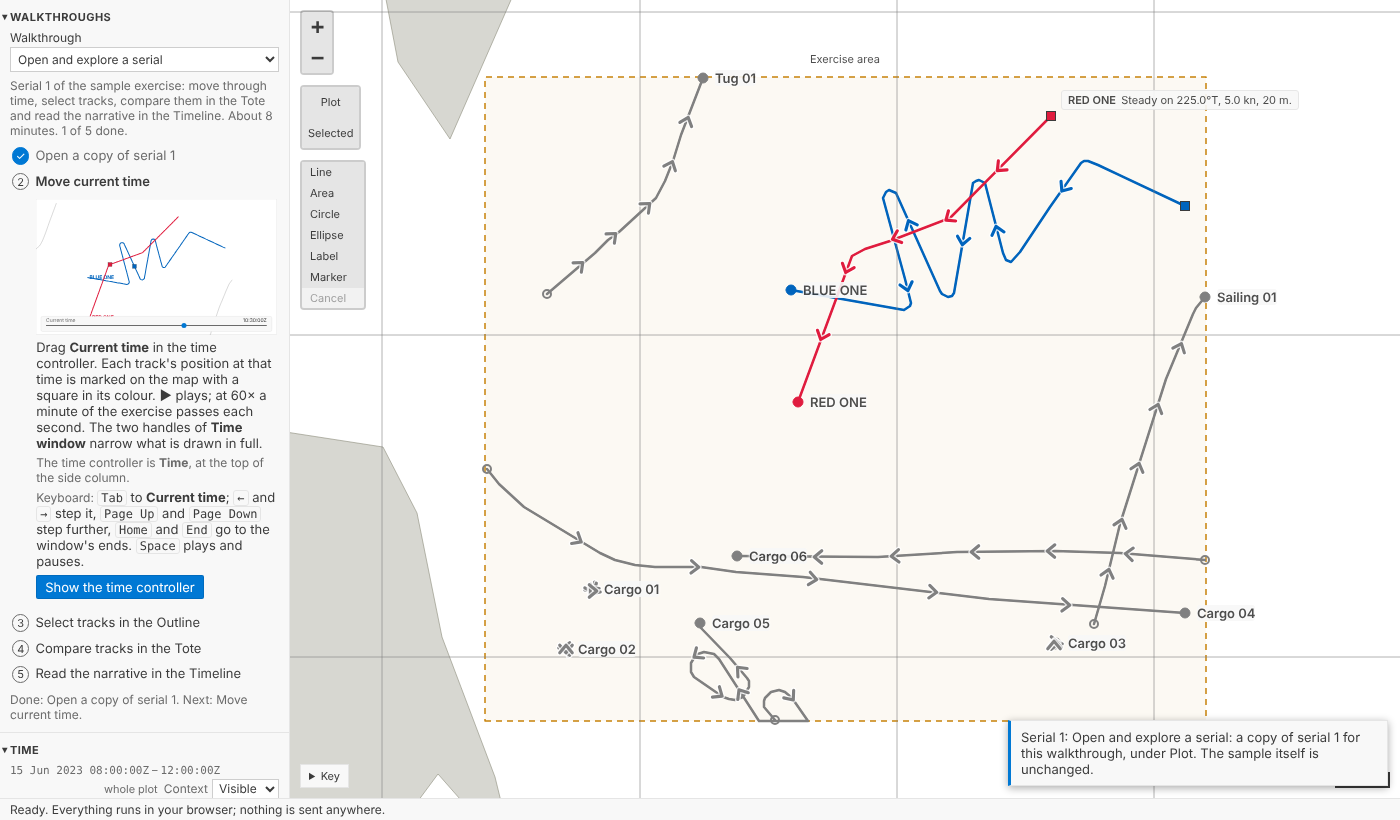
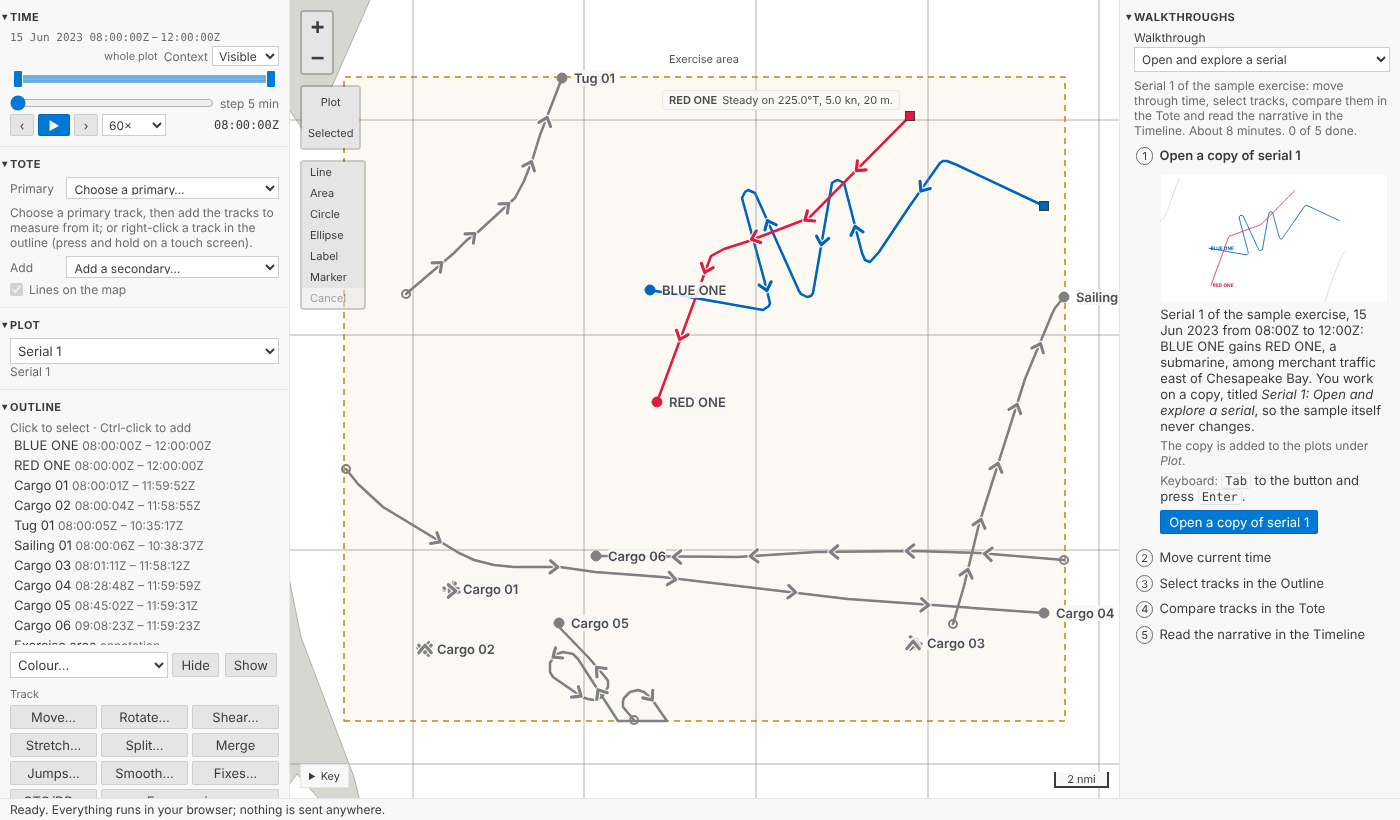
Onboarding: the walkthroughs in a column of their own, right of the map
In the browser, a step's words sat at the top of the side column, so doing
the step meant scrolling between them and the panel used. From 1200 px wide
the walkthroughs are now a column on the right of the map (product owner,
22 Oct 2026): side panels stay left, the map in the middle; the column
scrolls on its own, folds to a 25 px tab and the map widens. Below 1200 px
(phones, blog embeds, 601-900 px layouts) nothing changes: first panel in
the side column. 1200 px keeps the map about 670 px wide beside both
columns, and about 290 px with a tool's form open beside it too.

With the next step's button always in sight it can be pressed while the
step before is still saving: removing jumps and applying smoothing now close
only their own side panel, not the fix list the next step opened.

Tests: right-hand column at 1200-1440 px, labelled landmark, fold and
unfold by pointer and keyboard widen and narrow the map, step words in
sight while the side column is scrolled and while a step is done; no
sideways scroll at 1440 to 210 px in a wide font; phone layout as before;
the web demo at 1400 and 390 px. Docs, blog images and the delivery plan
updated.

Claude-Session: https://claude.ai/code/session_018c8QiHtanE5rfymqfArUYT

diff --git a/vscode/play/host.css b/vscode/play/host.css
@@ -2,7 +2,7 @@
 html, body { height: 100%; margin: 0; }
 [hidden] { display: none !important; }
 body { background: var(--vscode-editor-background); color: var(--vscode-foreground); font-family: var(--vscode-font-family); font-size: var(--vscode-font-size); }
-.app { display: grid; grid-template-columns: clamp(210px, 28vw, 290px) 1fr; grid-template-rows: 1fr auto; height: 100%; }
+.app { display: grid; grid-template-columns: clamp(210px, 28vw, 290px) minmax(0, 1fr) auto; grid-template-rows: 1fr auto; height: 100%; }
 .side { grid-row: 1; overflow-y: auto; background: var(--vscode-sideBar-background); border-right: 1px solid var(--vscode-panel-border); }
 .side section { padding: 6px 10px 10px; border-bottom: 1px solid var(--vscode-sideBarSectionHeader-border); }
 .side h2 { font-size: 11px; text-transform: uppercase; letter-spacing: .04em; margin: 4px 0 6px; display: flex; justify-content: space-between; align-items: center; color: var(--vscode-sideBarSectionHeader-foreground); }
@@ -62,7 +62,7 @@ main { grid-row: 1; display: flex; min-width: 0; min-height: 0; position: relati
 .side-bar button { text-transform: none; letter-spacing: 0; }
 .unavailable h2 { color: var(--vscode-disabledForeground); }
 .status.problem { color: var(--vscode-errorForeground); }
-footer { grid-column: 1 / span 2; padding: 3px 10px; background: var(--vscode-editorWidget-background); border-top: 1px solid var(--vscode-panel-border); font-size: 12px; }
+footer { grid-column: 1 / -1; padding: 3px 10px; background: var(--vscode-editorWidget-background); border-top: 1px solid var(--vscode-panel-border); font-size: 12px; }
 .status.busy::before { content: "⟳ "; display: inline-block; animation: spin 1.2s linear infinite; }
 @keyframes spin { to { transform: rotate(360deg); } }
 .toasts { position: fixed; right: 12px; bottom: 34px; display: flex; flex-direction: column; gap: 6px; max-width: 380px; z-index: 10; }
@@ -186,3 +186,18 @@ dialog::backdrop { background: #0006; }
 .tour-body kbd { font-family: var(--vscode-editor-font-family); font-size: 0.92em; padding: 0 3px; border: 1px solid var(--vscode-widget-border, var(--vscode-panel-border)); border-radius: 3px; }
 .tour-said { margin: 6px 0 0; min-height: 1em; overflow-wrap: anywhere; }
 .visually-hidden { position: absolute; width: 1px; height: 1px; padding: 0; margin: -1px; overflow: hidden; clip: rect(0 0 0 0); white-space: nowrap; border: 0; }
+/* On a wide screen the walkthroughs have a column of their own, on the right of the map: a step's
+   words stay in sight, whatever the side column is scrolled to, while it is done there and on the map.
+   It scrolls on its own. Folded, it is its heading on its side, a narrow tab, and the map takes the
+   rest (product owner, 22 Oct 2026). Narrower than 1200 px it is not shown: the walkthroughs are the
+   side column's first panel, as before (host.ts moves them). */
+.side.guide { grid-row: 1; grid-column: 3; min-height: 0; border-right: 0; border-left: 1px solid var(--vscode-panel-border); }
+.guide > .panel { width: clamp(240px, 20vw, 300px); box-sizing: border-box; padding-left: 14px; border-bottom: 0; }
+.guide > .panel.folded { width: auto; padding: 8px 5px; }
+.guide > .panel.folded h2 { margin: 0; }
+.guide > .panel.folded h2 button.fold { writing-mode: vertical-rl; padding: 2px 0; white-space: nowrap; }
+.guide > .panel.folded h2 button.fold .arrow { position: static; display: inline-block; width: auto; margin-bottom: 6px; text-orientation: upright; }
+.guide > .panel.folded h2 button.fold .arrow::before { content: "◂"; }
+/* A note shows over the map, not over the walkthroughs' column. */
+body:has(#guide:not([hidden]) > .panel:not(.folded)) .toasts { right: calc(clamp(240px, 20vw, 300px) + 12px); }
+body:has(#guide:not([hidden]) > .panel.folded) .toasts { right: 44px; }

diff --git a/vscode/play/host.ts b/vscode/play/host.ts
@@ -12,7 +12,8 @@
  *   plot=serial-1         the sample serial to open
  *   panels=tour,tote,timeline,tools,history,export,try,import   the side panels, in this order (all by default;
  *                         the Tote, when listed, is always under the time controller, and the
- *                         walkthroughs always above it)
+ *                         walkthroughs always above it, or, on a wide screen, in a column of
+ *                         their own on the right of the map)
  *
  * The web demo (demo.mjs) is this page, full screen at /demo/, using the playground's files.
  * Files the reader opens, there and here, are read in the browser only (DEP-07).
@@ -1232,7 +1233,8 @@ $("find-jumps").onclick = async () => {
       remove.disabled = false;
       return toast(outcome.error, "warning");
     }
-    closeSide();
+    // Only this panel: the next walkthrough step's button, in sight beside the map, may have opened another meanwhile.
+    if ($("side-frame").contains(remove)) closeSide();
   };
 };
 
@@ -1277,7 +1279,8 @@ $("smooth-track").onclick = async () => {
       apply.disabled = false;
       return toast(outcome.error, "warning");
     }
-    closeSide();
+    // Only this panel: the next walkthrough step's button, in sight beside the map, may have opened another meanwhile.
+    if ($("side-frame").contains(apply)) closeSide();
   };
 };
 
@@ -2097,10 +2100,27 @@ function needsPython(on: boolean): void {
   for (const id of NEEDS_PYTHON) $<HTMLButtonElement | HTMLInputElement>(id).disabled = !on;
 }
 needsPython(false);
-// The walkthroughs above the time controller: where a newcomer starts. Open in the web demo;
-// folded in the playground and the blog's demos, whose readers came for something else (product
-// owner, 17 Oct 2026).
-if (panels.has("tour")) $("side").prepend($("panel-tour"));
+// The walkthroughs: where a newcomer starts. On a wide screen, a column of their own on the right
+// of the map, so a step's words stay in sight while it is done in the side panels and on the map;
+// folded, the column narrows to its heading, and the map widens (product owner, 22 Oct 2026).
+// Narrower, first in the side column, above the time controller, as before. Open in the web
+// demo; folded in the playground and the blog's demos, whose readers came for something else
+// (product owner, 17 Oct 2026).
+/** Wide enough for the walkthroughs' column: the map keeps about 290 px beside it with a tool's form open too. */
+const GUIDE_WIDE = matchMedia("(min-width: 1200px)");
+function placeTour(): void {
+  if (!panels.has("tour")) return;
+  const tour = $("panel-tour");
+  const into = GUIDE_WIDE.matches ? $("guide") : $("side");
+  $("guide").hidden = !GUIDE_WIDE.matches;
+  if (tour.parentElement === into) return;
+  // Moved with the keyboard on it, the keyboard stays on it.
+  const focused = tour.contains(document.activeElement) ? (document.activeElement as HTMLElement) : undefined;
+  into.prepend(tour);
+  focused?.focus({ preventScroll: true });
+}
+placeTour();
+GUIDE_WIDE.addEventListener("change", placeTour);
 if (!demo) folds.setOpen("panel-tour", false);
 $("undo").onclick = () => void move("undo");
 $("redo").onclick = () => void move("redo");

diff --git a/vscode/play/index.html b/vscode/play/index.html
@@ -152,6 +152,8 @@
   <main id="main">
     <div id="side-frame" class="side-frame" hidden></div>
   </main>
+  <!-- A wide screen's walkthroughs, beside the map on the right (host.ts places them; product owner, 22 Oct 2026). -->
+  <aside id="guide" class="side guide" aria-label="Walkthroughs" hidden></aside>
   <footer><span id="status" class="status"></span></footer>
 </div>
 <div id="toasts" class="toasts" aria-live="polite"></div>

diff --git a/docs/delivery-plan.md b/docs/delivery-plan.md
@@ -192,7 +192,7 @@ The schema freeze may come earlier, even before pilots, if the model settles.
 - [x] 17 Oct 2026, product owner: the web demo is a standalone full-screen page at `/demo/` on the documentation site with every panel and the walkthroughs and fixed sample serials, linked from the home page; the blog's embedded demos keep working. First decided with file upload removed, then, the same day, superseded: (17 Oct)
 - [x] 17 Oct 2026, product owner, superseding the "no upload" wording of DEP-07: the web demo **allows a file the analyst chooses** to be opened, read only in the browser (under Pyodide), never sent over the network and never stored: nothing of it persists after the tab closes (no IndexedDB, local storage or Cache API storage of it). No warning banner. The fixed sample serials stay the default content. DEP-07 now reads: "The public instance shall ship with fixed sample data. It may open files the analyst chooses, read only in the browser, never sent or stored." Tested: every request is watched while a file of the reader's own is imported, and none carries it (in its address or body) or sends anything at all; storage holds none of it, before or after the tab is closed. (17 Oct)
 - [x] 17 Oct 2026, product owner, answering the onboarding pull request's questions: the trial imports **both** a REP file (serial 2's `red-one.rep`) **and** a legacy .dpf plot, and the speed run does too. It starts with a catalogue already added, since otherwise task 1 starts by asking where plots go. A walkthrough's ticks are not remembered across a reload. In VS Code, **Start again** deletes the old copy. The file picker in the web demo has no label and no banner of its own, as before. (17 Oct)
-- [x] 17 Oct 2026, product owner: the *Walkthroughs* panel is at the top of the side column everywhere: open in the web demo, folded in the playground and the blog's demos, whose readers came for something else. (17 Oct)
+- [x] 17 Oct 2026, product owner: the *Walkthroughs* panel is at the top of the side column everywhere: open in the web demo, folded in the playground and the blog's demos, whose readers came for something else. (17 Oct; on screens 1200 px wide or more, a column on the right instead, 22 Oct below)
 - [x] 17 Oct 2026, product owner: Pyodide stays on jsDelivr, and the web demo and the playground's pages (the page, each frame, the geodesic demo) carry a strict Content-Security-Policy in a meta element: `default-src 'self'; connect-src 'self' https://cdn.jsdelivr.net; worker-src 'self' blob:; script-src 'self' 'wasm-unsafe-eval' https://cdn.jsdelivr.net; img-src 'self' data: blob:; style-src 'self' 'unsafe-inline'; font-src 'self' data:; object-src 'none'; form-action 'none'; base-uri 'self'`. It is `base-uri 'self'`, not `'none'`, because the web demo's `<base>` points at the playground's files. A meta element's policy does not cover the Python worker, and GitHub Pages cannot send a policy as a header. **jsDelivr's files are loaded with no integrity check: the product owner accepts this risk.** Tested: the policy is in the page and every frame, and the whole playground suite runs with nothing refused by it. (17 Oct)
 - [x] 17 Oct 2026, after an independent panel's review of the onboarding pull request:
   - **The web demo keeps nothing that came from a file.** In the web demo, the Timeline's remembered filter keeps only the kinds of entry shown and the view's own settings (text size, wrapping, columns, choosing moving time). It never keeps sources, types or highlighted phrases, which are words from the plot (`contentFree`). Every other value the demo keeps in the browser is a panel id, a walkthrough id or an export's size and colours. Tested after a REP file, a Word narrative, an exported image found again by its file, and the Timeline filtered and highlighted: local storage, session storage after the tab closes, IndexedDB, the Cache API and the origin's private file system hold nothing of them. No request carries them, nothing is sent at all (also as the tab closes), and no WebSocket opens.
@@ -212,6 +212,7 @@ The schema freeze may come earlier, even before pilots, if the model settles.
     - The time controller's window wraps in a 210 px column, and Import's file boxes stay inside it.
     - `package.json` no longer lists the walkthrough commands inside its menus. A unit test now holds every menu entry to a contributed command, by id and condition.
     (17 Oct)
+- [x] 22 Oct 2026, product owner, amending the 17 Oct placement of the *Walkthroughs* panel: in the browser (playground and web demo), on a screen **1200 px wide or more**, the walkthroughs are a **column of their own on the right of the map**, the side panels staying on the left, so a step's words stay in sight while the analyst does it in the side panels and on the map; at the top of the side column, a step meant scrolling between its words and the panel used. The column scrolls on its own; it folds as before (folded, a narrow tab with its heading on its side, about 25 px, and the map widens), by the pointer or the keyboard, and its status line still speaks to screen readers. Open in the web demo, folded in the playground and the blog's demos, as before. Below 1200 px (phones, the blog's embedded demos, the 601 to 900 px layouts) it stays the side column's first panel, unchanged. 1200 px because from 901 px a tool's form opens beside the map: at 1200 px the map keeps about 670 px beside both columns and about 290 px beside the form too, while at 1024 px it would keep about 150 px with the form open. The column is 20% of the window, 240 to 300 px (256, 273 and 288 px at 1280, 1366 and 1440). With the next step's button always in sight, it can be pressed while the step before is still being saved: removing jumps and applying smoothing now close only their own panel beside the map, never the fix list the next step opened. (22 Oct)
 
 - [x] 16 Oct 2026, product owner: collation (CAP-08 to CAP-12) in one pull request, with data coverage in the Timeline (CAP-05). (16 Oct)
 - [x] 16 Oct 2026, product owner: a source is a catalogue item: an imported file, which Debrief keeps as an item of its own, or any other plot in a catalogue. Coverage shows, for each item and each of its tracks, the periods it has data for: in the catalogue browser (VS Code's Catalogues tree, a Coverage view below it, and the playground's Catalogue and Coverage panels) and in the Timeline (CAP-05), where each track's data coverage, by the item supplying each period, joins the narrative, notes, periods and fix comments. (16 Oct)

diff --git a/site/docs/blog/posts/2026-10-22-first-hour.md b/site/docs/blog/posts/2026-10-22-first-hour.md
@@ -28,7 +28,7 @@ Each takes about ten minutes and works on **a fresh copy** of the sample's seria
 
 Every step says what to do, where it is, and how to do it from the keyboard, with a picture drawn from the sample. Its button only takes you there: it opens the copy, or brings the panel or the command to hand. The step ticks itself off when you have actually done it, however you did it: from the form, on the map, from the keyboard. Finding the jumps ticks nothing; removing them does. A preview of smoothing is not smoothing; moving or stretching a track is not shearing it. And only the walkthrough's own copy counts: the same change to another of your plots ticks nothing, and with another plot open a step's button opens the walkthrough's copy before it does anything.
 
-![The playground's Walkthroughs panel at the top of the side column: Tidy a track chosen, all five steps ticked, and the line Done: Shear a leg, as in TMA. That is the whole of Tidy a track; the map shows Serial 1: Tidy a track, RED ONE's fix labelled Turned away and BLUE ONE sheared](images/phase-3/onboarding-tidy-done.png)
+![The playground's Walkthroughs in their column on the right of the map: Tidy a track chosen, all five steps ticked, and the line Done: Shear a leg, as in TMA. That is the whole of Tidy a track; the map shows Serial 1: Tidy a track, RED ONE's fix labelled Turned away and BLUE ONE sheared](images/phase-3/onboarding-tidy-done.png)
 
 ## In VS Code: the Get Started page
 
@@ -40,9 +40,9 @@ The words of every step live in one file, which VS Code's walkthroughs are writt
 
 ## The web demo
 
-The <a href="../../../../../demo/">web demo</a> is Debrief full screen in your browser: every panel, the walkthroughs first, and the three serials of the sample exercise. The Python tools run in the page, under Pyodide, as in the blog's demos. You can open a file of your own there too, a REP file, a legacy plot or a Word narrative: it is read in your browser and nowhere else. The demo's test opens such files, filters and highlights them in the Timeline, and exports and traces an image, watching every request the page makes. None carries the files, nothing is sent at all, not even as the tab closes, and nothing derived from them is kept in any of the browser's stores, so they are gone when you close the tab. The page also carries a strict Content-Security-Policy. One thing it cannot vouch for: Python itself, Pyodide, comes from the jsDelivr CDN without an integrity check, a risk we have accepted.
+The <a href="../../../../../demo/">web demo</a> is Debrief full screen in your browser: every panel, the walkthroughs open in a column of their own on the right of the map, and the three serials of the sample exercise. With the steps beside the map, a step's words stay in sight while you do it in the side panels and on the map; fold the column and the map takes its place. On a phone the walkthroughs are the first panel instead. The Python tools run in the page, under Pyodide, as in the blog's demos. You can open a file of your own there too, a REP file, a legacy plot or a Word narrative: it is read in your browser and nowhere else. The demo's test opens such files, filters and highlights them in the Timeline, and exports and traces an image, watching every request the page makes. None carries the files, nothing is sent at all, not even as the tab closes, and nothing derived from them is kept in any of the browser's stores, so they are gone when you close the tab. The page also carries a strict Content-Security-Policy. One thing it cannot vouch for: Python itself, Pyodide, comes from the jsDelivr CDN without an integrity check, a risk we have accepted.
 
-![The web demo, full screen: the Walkthroughs panel above the time controller, the sample's Serial 1 on the map](images/phase-3/onboarding-demo.png)
+![The web demo, full screen: the side panels on the left, the sample's Serial 1 on the map, the Walkthroughs open in their column on the right](images/phase-3/onboarding-demo.png)
 
 ## Is an hour enough?
 
@@ -50,7 +50,7 @@ The SRD's target (NFR-09) is an hour to import a serial, compose a storyboard an
 
 ## Try it
 
-Open **Walkthroughs**, at the top of the side column, choose one and press its first button:
+Open **Walkthroughs**, at the top of the side column (in the web demo, on the right), choose one and press its first button:
 
 <div class="debrief-demo" data-demo="?panels=tour,tote,timeline,coverage,catalogue,history,export" data-height="760px" data-caption="Four walkthroughs on a fresh copy of the sample exercise, each step ticked as you do it. Everything runs in your browser."></div>
 

diff --git a/site/docs/guides/interaction-models/walkthroughs.md b/site/docs/guides/interaction-models/walkthroughs.md
@@ -39,7 +39,7 @@ The walkthroughs are on VS Code's **Get Started** page, under Debrief: **Debrief
 
 ### In the playground and the web demo
 
-A **Walkthroughs** panel, first in the side column above the time controller, folding like every panel (open in the web demo, folded in the playground and the blog's demos; product owner, 17 Oct 2026): a list to choose the walkthrough, its steps (each a button that opens it, its number or a tick, *done* said to screen readers), the step to do next open, and a line saying what was done and what comes next. The copy is made in the browser from the sample as the site shipped it, kept apart from the reader's own changes, so a walkthrough always starts clean. The chosen walkthrough is remembered in the browser; ticks are not, since the copies go when the page closes (product owner, 17 Oct 2026).
+A **Walkthroughs** panel, folding like every panel (open in the web demo, folded in the playground and the blog's demos; product owner, 17 Oct 2026). **On a screen 1200 pixels wide or more it is a column of its own on the right of the map** (decision, product owner, 22 Oct 2026): the side panels stay on the left and the map in the middle, so a step's words stay in sight while the analyst does it in the side panels and on the map. The column scrolls on its own, never with the side column or the page. Folded, it is a narrow tab holding its heading on its side, and the map takes the rest; the heading is the same button, from the pointer or the keyboard (`Enter` or `Space`), and the column is a landmark named *Walkthroughs*. Narrower, on a phone and in the blog's demos, it is the side column's first panel, above the time controller, as before. 1200 pixels keeps the map about 670 pixels wide beside both columns, and about 290 beside a tool's form too, which from 901 pixels opens beside the map; at 1280, 1366 and 1440 pixels the column is 256, 273 and 288 wide. It holds a list to choose the walkthrough, its steps (each a button that opens it, its number or a tick, *done* said to screen readers), the step to do next open, and a line saying what was done and what comes next. The copy is made in the browser from the sample as the site shipped it, kept apart from the reader's own changes, so a walkthrough always starts clean. The chosen walkthrough is remembered in the browser; ticks are not, since the copies go when the page closes (product owner, 17 Oct 2026).
 
 The **web demo** at `/demo/` is the playground's page full screen, every panel and the walkthroughs, opening the fixed sample serials. A file the analyst chooses opens there too, read in the browser only (decision, product owner, 17 Oct 2026, amending DEP-07). No request carries it, nothing is sent at all (nor as the tab closes), and no WebSocket opens. Nothing derived from it is stored either: in the web demo the Timeline keeps only the kinds of entry shown and its view's own settings, never sources, types or highlighted phrases. It is gone when the tab closes.
 
@@ -52,7 +52,7 @@ The **web demo** at `/demo/` is the playground's page full screen, every panel a
 | Get Started (VS Code) | `Tab` to a step, `Enter` opens it; `Tab` to its button, `Enter` | VS Code's own page |
 | The playground's panel | `Tab` to the list, `↓` chooses a walkthrough; `Tab` to a step, `Enter` or `Space` opens it; `Tab` to its button, `Enter` | Every part a button or a list; a tap does the same |
 
-The panel never scrolls sideways at 210, 280 or 390 pixels, in a wider font too.
+The panel never scrolls sideways, nor the page, at 210, 280 or 390 pixels, in the side column of a 650 to 750 pixel window, or in its column at 1200 to 1440 pixels, in a wider font too.
 
 ```mermaid
 sequenceDiagram

diff --git a/site/docs/try.md b/site/docs/try.md
@@ -4,7 +4,7 @@ This is Debrief v4 running in your browser: the same map, tool forms and results
 
 <div class="debrief-demo" data-demo=""></div>
 
-New to Debrief? Open **Walkthroughs**, folded at the top of the side column: four short walkthroughs, each on a fresh copy of the sample, each step ticked as you do it. The same page runs full screen as the <a href="../demo/">web demo</a>.
+New to Debrief? Open **Walkthroughs**, folded at the top of the side column (on a wide screen, a column of its own on the right of the map): four short walkthroughs, each on a fresh copy of the sample, each step ticked as you do it. The same page runs full screen as the <a href="../demo/">web demo</a>.
 
 ## Things to try
 
